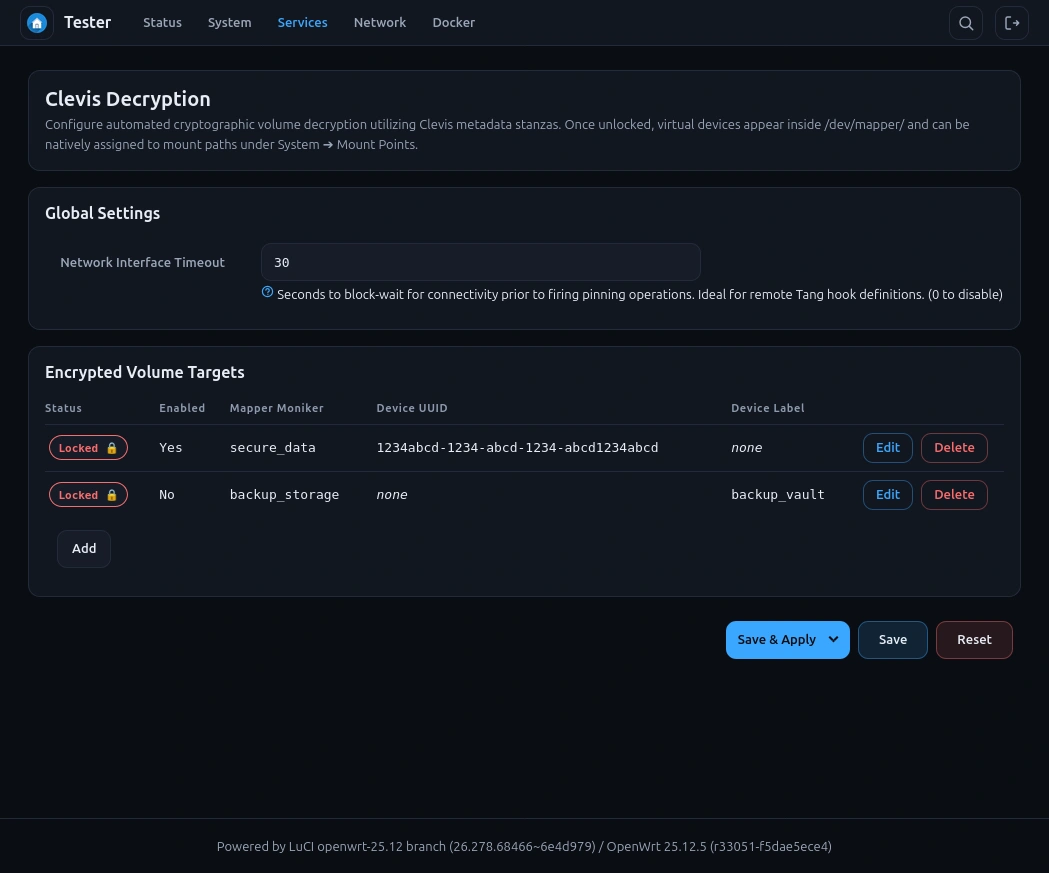
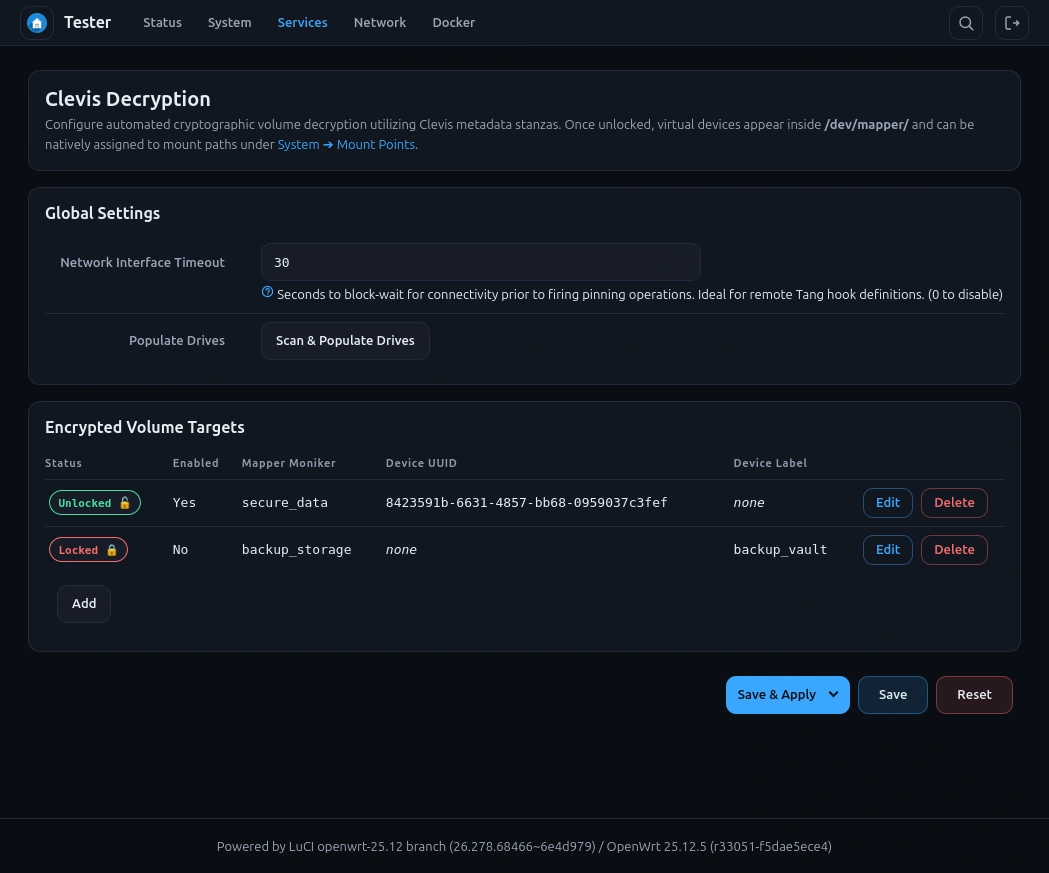
Updated 2026-0-22-nas-part3.md

diff --git a/_posts/2026-09-22-nas-part3.md b/_posts/2026-09-22-nas-part3.md
@@ -160,9 +160,8 @@ Let's install Clevis, plus a LuCI app to handle it:
 apk add luci-app-clevis
 ```
 
-This gives us a UI for configuring clevis, as well as viewing the status of our LUKS
-partitions.  As of this writing, the app is rather basic, and more features are planned....
[1 lines of base64/hex data omitted]
+This gives us a UI for configuring clevis, as well as viewing the status of our LUKS partitions.
[1 lines of base64/hex data omitted]
 
 ----
 
